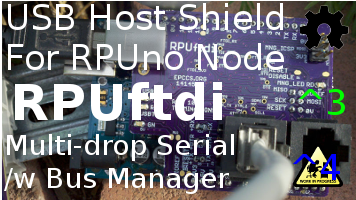
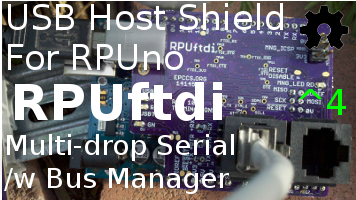
Hardware: ^4 testing

Changed region(s): [[0.5562, 0.21, 0.8034, 0.36], [0.8034, 0.72, 0.9888, 0.96], [0.8961, 0.42, 0.9888, 0.6]]

diff --git a/Hardware/Testing/readme.md b/Hardware/Testing/readme.md
@@ -23,7 +23,7 @@ This is a list of Test preformed on each RPUftdi after assembly.
 
 ## Basics
 
-These tests are for an assembled RPUftdi board 14145^3 which may be referred to as a Unit Under Test (UUT). If the UUT fails and can be reworked then do so, otherwise it needs to be scraped. 
+These tests are for an assembled RPUftdi board 14145^4 which may be referred to as a Unit Under Test (UUT). If the UUT fails and can be reworked then do so, otherwise it needs to be scraped. 
 
 **Warning: never use a soldering iron to rework ceramic capacitors due to the thermal shock.**
     
@@ -44,114 +44,154 @@ Check continuity between pin and pad by measuring the reverse body diode drop fr
 
 ## Bias USB 5V and Check LDO Regulators
 
-Apply a 5V current limited source (about 30mA*) to the USB input. Verify that the 5V gets through the fuse and soft start circuit to the +5V pin. Check that the the MIC5205 linear regulator has 3.3V (use ICSP J9 pin2 on ^3).  Check that the input current for a blank MCU is less than 10mA. Turn off power.
+Connect a 5V supply with CC mode set at 30mA to the USB input. Verify that the 5V gets through the fuse and soft start circuit to the +5V pin. Turn off power. 
+
+Connect a 5V supply with CC mode set at 30mA to the +5V (J7 pin 4) and  0V (J7 pin 2). Measure that the the MIC5205 linear regulator has 3.3V (J9 pin 2). Measure the input current of a blank MCU. Turn off power.
 
 ```
-{   "I_IN_BLANKMCU_mA":[5.5,],
-    "LDO_V":[3.29,] }
+{   "I_IN_BLANKMCU_mA":[4.5,],
+    "LDO_V":[3.3,] }
 ```
+
 
 ## Set MCU Fuse
 
-The MCU needs its fuses set, so a Makefile (e.g. "make fuse") is used to do that. There is not a bootloader, it just sets fuses.
-
-Use the <https://github.com/epccs/RPUftdi/tree/master/Bootload> Makefile 
-
-Check that the input current is suitable for 8Mhz at 3.3V.
+Install Git and AVR toolchain on Ubuntu (16.04, on an old computer try https://wiki.ubuntu.com/Lubuntu). 
 
 ```
-{   "I_IN_MCU_8MHZ_INTRN_mA":[8.5,]}
+sudo apt-get install git gcc-avr binutils-avr gdb-avr avr-libc avrdude
+```
+
+Clone the RPUftdi repository.
+
+```
+cd ~
+git clone https://github.com/epccs/RPUftdi
+cd RPUftdi/Bootload
+```
+
+Connect a 5V supply with CC mode set at 30mA to the +5V (J7 pin 4) and  0V (J7 pin 2). Connect the ICSP tool (J9). The MCU needs its fuses set, so run the Makefile rule to do that. 
+
+```
+make fuse
+```
+
+Note: There is not a bootloader, it just sets fuses.
+
+Disconnect the ICSP tool and measure the input current for 8Mhz internal at 3.3V.
+
+```
+{   "I_IN_MCU_8MHZ_INTRN_mA":[6.3,]}
 ```
 
 
 ## Load CheckDTR Firmware
 
-Increase current limit to 50mA and load (e.g. "make isp") CheckDTR firmware to verify DTR control is working:
+Plug a header (or jumper) onto the +5V pin so that IOREF is jumpered to +5V. Connect TX pin to IOREF to pull it up (the MCU normaly does this). Plug a CAT5 RJ45 stub with 100 Ohm RX, TX and DTR pair terminations. Connect a 5V supply with CC mode set at 50mA to the +5V that was jumpered to IOREF (J7 pin 4) and  0V (J7 pin 2). Connect the ICSP tool (J9).
 
-Use the <https://github.com/epccs/RPUftdi/tree/master/CheckDTR> Makefile
+Use the command line to select the CheckDTR source working directory. Run the makefile rule used to load CheckDTR firmware that verifies DTR control is working:
+
+```
+cd ~RPUftdi/CheckDTR
+make isp
+```
 
 The program loops through the test. It blinks the red LED to show which test number is setup. If it keeps repeating a test then that test has failed.
 
-As the firmware loops the input current can be measured, it should have two distinct levels, one when the DTR pair is driven low and one when the DTR pair is not driven. The blinking LED leaves the DMM unsettled.
+As the firmware loops the input current can be measured, it should have two distinct levels, one when the DTR pair is driven low and one when the DTR pair is not driven. The blinking LED leaves the DMM unsettled. Measure that FTDI_3V3 has 3.3V (TP3).
 
 ```
-{   "DTR_HLF_LD_mA":[36.8,],
-    "DTR_NO_LD_mA":[13.7,] }
+{   "DTR_HLF_LD_mA":[36.8,34.1,],
+    "DTR_NO_LD_mA":[13.7,11.5,],
+    "FTDI_3V3_V":[3.275,] }
 ```
 
 
 ##  Check Differential Bias
 
-Plug a header (or jumper) onto the +5V pin so that IOREF is jumpered to  +5V, set current limit at 100mA. Connect TX pin to IOREF to pull it up (the MCU normaly does this). Use the CheckDTR firmware to set TX_DE and RX_DE high. Now power up the +5V. Check that both RX and TX have 5V. Check that TX_DI has 3.3V (U2 pin 4 on ^3) and its TX_DE control (U2 pin 3 on ^3) is pulled low. Check that FTDI_TX has 3.3V (TP2 on ^3). Check that RX_DE (U6 pin 3 on ^3) is pulled low. 
+Plug a header (or jumper) onto the +5V pin so that IOREF is jumpered to +5V. Connect TX pin to 0V to pull it down to simulate the MCU sending data. The CheckDTR firmware will set TX_DE and RX_DE high. Connect a 5V supply with CC mode set at 100mA to the +5V that was jumpered to IOREF (J7 pin 4) and 0V (J7 pin 2). 
 
-Now disconnect TX from IOREF and connect it to 0V, to simulate the MCU sending data. Check  that the input current is cycling between 56mA and 33mA. At 56mA the TX driver is driving the TX pair with half load and DTR driver is driving the DTR pair with a half load, while ony the TX pair is driven at 33mA. 
+Check  that the input current is cycling between 56mA and 33mA. At 56mA the TX driver is driving the TX pair with half load and DTR driver is driving the DTR pair with a half load, while ony the TX pair is driven at 33mA. 
 
 ```
-{   "DTR_TX_HLF_LD_mA":[59.4,],
-    "TX_HLF_LD_mA":[36.5,] }
+{   "DTR_TX_HLF_LD_mA":[59.4,56.5,],
+    "TX_HLF_LD_mA":[36.5,33.8,] }
 ```
 
 
 ## Differential Loopback with TX Driver
 
-Plug in a RJ45 loopback connector to connect the TX differential pair to the RX differential pair and the input current. The TX driver is now driving a differential pair with 50 Ohms on it, which is the normal load. Verify that RX has 0V on it now. Turn off power. 
 
-NOTE: the RX Driver is directly connected by FTDI_TX to the FTDI chip, if it were to be pulled down to test the RX driver the FTDI chip would be damaged.
+Same as Differential Bias test with a plug in a RJ45 loopback connector to connect the TX differential pair to the RX differential pair and the input current. The TX driver is now driving a differential pair with 50 Ohms on it, which is the normal load. Verify that RX has 0V on it now.
+
+NOTE: the RX Driver is directly connected by FTDI_TX to the FTDI chip pin, if the FTDI_TX node were to be pulled down to test the RX driver the FTDI chip would not stop trying to pull it up and be damaged.
 
 ```
-{   "DTR_HLF_LD_TX_FL_LD_mA":[76.5,],
-    "TX_FL_LD_mA":[53.0,] }
+{   "DTR_HLF_LD_TX_FL_LD_mA":[76.5,73.8,],
+    "TX_FL_LD_mA":[53.0,51.0,] }
 ```
+
+Turn off power. 
 
 
 ## USB Power Up
 
-__Warning:__ a powerd USB hub offers no protection, this needs improved.
+Plug a header (or jumper) onto the +5V pin so that IOREF is jumpered to +5V.
 
 On Linux use the dmesg command to see latest device mesages then plug the USB input to a powered hub that was previously connected and use dmesg to verify that the new USB port shows up. Then use picocom to connect to it.
 
 ```
-rsutherland@conversion:~/Samba/RPUftdi/CheckDTR$ dmesg
+rsutherland@conversion:~/RPUftdi/CheckDTR$ dmesg
 ...
-[54874.888730] usbcore: registered new interface driver ftdi_sio
-[54874.889210] usbserial: USB Serial support registered for FTDI USB Serial Device
-[54874.889728] ftdi_sio 1-4.3:1.0: FTDI USB Serial Device converter detected
-[54874.889933] usb 1-4.3: Detected FT-X
-[54874.890522] usb 1-4.3: FTDI USB Serial Device converter now attached to ttyUSB0
+[20662.404039] usb 1-4.3: new full-speed USB device number 6 using ehci-pci
+[20662.502768] usb 1-4.3: New USB device found, idVendor=0403, idProduct=6015
+[20662.502781] usb 1-4.3: New USB device strings: Mfr=1, Product=2, SerialNumber=3
+[20662.502792] usb 1-4.3: Product: FT231X USB UART
+[20662.502801] usb 1-4.3: Manufacturer: FTDI
+[20662.502812] usb 1-4.3: SerialNumber: DA01LX0U
+[20662.512277] ftdi_sio 1-4.3:1.0: FTDI USB Serial Device converter detected
+[20662.512328] usb 1-4.3: Detected FT-X
+[20662.512686] usb 1-4.3: FTDI USB Serial Device converter now attached to ttyUSB0
 ...
-rsutherland@conversion:~/Samba/RPUftdi/CheckDTR$ picocom -b 115200 /dev/ttyUSB0
+rsutherland@conversion:~/Samba/RPUftdi/CheckDTR$ picocom -b 38400 /dev/ttyUSB0
 ```
 
-Plug in a jumper from TX to RX pins and verify each character echo's. Turn off power (unplug USB).
-
-Note: using the RJ45 loopback will not echo unless the TX input is pulled high, but the above test has already gone on the differential pairs so the RJ45 loopback is not needed. 
+Plug in a jumper from TX to RX pins, which go to the MCU board, and verify each character echo's. Turn off power (unplug USB).
 
 
 ## Load i2c-debug into an MCU board
 
-Plug the DUT into a bare metal MCU board (e.g. RPUno). Connect a USB to the RPUftdi, which should prvide 3.3V for RPUftdi bus manager, and load (e.g. "make isp") the Host2Remote firmware. 
+Plug the DUT into a bare metal MCU board (e.g. RPUno). Connect USB from a host computer to the RPUftdi to power the bus manager. Connect the ICSP tool (J9).
 
-Use the <https://github.com/epccs/RPUftdi/tree/master/Host2Remote> Makefile
+Use the command line to select the Host2Remote source working directory. Run the makefile rule used to load Host2Remote firmware.
+
+```
+cd ~RPUftdi/Host2Remote
+make isp
+```
 
 Use picocom to connect, and verify that the red MNG_LED blinks. The DUT's red MNG_LED blinks when the UART pulls DTR active. Exit picocom with C-a, C-x. The MNG_LED should stop blinking after picocom exits.
 
-Now load (e.g. "make bootload") the i2c-debug firmware onto the bare metal MCU board (e.g. an RPUno) through the DUT. Watch the yellow USBRX and red USBTX to verify they are working. Remove power by pulling the USB plug. 
+Now load the i2c-debug firmware onto the RPUno board through the DUT. Watch the yellow USBRX and red USBTX to verify they are working. Remove power by pulling the USB plug. 
 
-Use the <https://github.com/epccs/RPUno/tree/master/i2c-debug> Makefile
+```
+cd ~RPUno/i2c-debug
+make bootload
+```
 
 Note: The serial bootload has to travel out the FTDI_TX line and into the RX transceiver driver (which also enables it). The RX differential pair is thus driven and seen by all the differential receivers on the RX pair. The RX pair receiver drives the bare metal RX line when it is enabled by the bus manager. The direction data flows is changed but it works similarly from the bare metal TX line to the FTDI_RX line.
 
 
 ## I2C Slave test
 
-With i2c-debug loaded in the MCU board (e.g. an RPUno) on the DUT hotplug the USB to the RPUftdi board. If BUILTIN_LED is connected it will blink at 0.5Hz (1 sec on, and 1 sec off) when I2C reads correctly.
+With i2c-debug loaded in the RPUno board under the DUT hotplug the USB to the RPUftdi board. If BUILTIN_LED is connected it will blink at 0.5Hz (1 sec on, and 1 sec off) when I2C reads correctly.
 
 Note: hotplugging can brownout power to other USB devices when the plugged device does not implement a soft start circuit, but the RPUftdi should not cause such brownouts because it has a soft start.
 
-Note: For reference, the Host2Remote firmware uses the DTR pair to maintain a state machine. When picocom connects it will broadcast a byte on the DTR pair that other bus managers can receive. The following will use I2C command 0x03 (implemented in Host2Remote) to set the address that is broadcast when a host computer pulls the FTDI_nDTR active.
+Note: For reference, the Host2Remote firmware uses the DTR pair to maintain a state machine. When picocom connects it will broadcast a byte on the DTR pair that other bus managers can receive. The following will use I2C command 0x03 (implemented in Host2Remote) to set the address ('1' or 0x31) that is broadcast when a host computer pulls the FTDI_nDTR active.
 
 ```
-rsutherland@conversion:~/Samba/RPUftdi/CheckDTR$ picocom -b 115200 /dev/ttyUSB0
+rsutherland@conversion:~/Samba/RPUftdi/CheckDTR$ picocom -b 38400 /dev/ttyUSB0
 ...
 /0/id?
 {"id":{"name":"I2Cdebug","desc":"RPUno Board /w atmega328p and LT3652","avr-gcc":"4.9"}}
@@ -159,12 +199,12 @@ rsutherland@conversion:~/Samba/RPUftdi/CheckDTR$ picocom -b 115200 /dev/ttyUSB0
 {"scan":[{"addr":"0x29"}]}
 /0/address 41
 {"address":"0x29"}
-/0/buffer 3,0
-{"txBuffer":["data":"0x3","data":"0x0"]}
+/0/buffer 3,49
+{"txBuffer":["data":"0x3","data":"0x31"]}
 /0/write
 {"returnCode":"success"}
 /0/read? 2
-{"rxBuffer":[{"data":"0x3"},{"data":"0x0"}]}
+{"rxBuffer":[{"data":"0x3"},{"data":"0x31"}]}
 ```
 
-
+Since there is no address '1' the RPUftdi bus manager LED will blink slow until the bootload timout is done, a power cycle will reset the bootload address to '0'.

diff --git a/readme.md b/readme.md
@@ -28,7 +28,7 @@ Hardware files are in Eagle, there is also some testing, evaluation, and schooli
 
 ## Example
 
-A multi-drop serial bus allows multiple microcontroller boards to be connected to a host serial port. The host computer needs to be near the RPUftdi board because USB works over short distances (about 2 meters). The host controls the transceivers through the FTDI UART bridge automatically, which means no software [magic] is needed to control the transceivers. The microcontrollers do the same, but only one should be allowed to talk.
+A multi-drop serial bus allows multiple microcontroller boards to be connected to a host serial port. The host computer needs to be near the RPUftdi board because USB works over short distances (about 2 meters). The host serial handshake signals are connected to the bus manager microcontroller which is also connected to the transceivers. The goal is to have a multidrop connection that configures automatically when the host activates the FTDI UART bridge.  Additionally, it is desired to have zero software [magic] for control of the transceivers. The microcontrollers also do not need to control the transceivers, but only one should be allowed to talk.
 
 [magic]: https://github.com/pyserial/pyserial/blob/master/serial/rs485.py
 
@@ -36,15 +36,17 @@ A multi-drop serial bus allows multiple microcontroller boards to be connected t
 
 In the examples, I have for [RPUno] a command processor accepts interactive textual commands and operates the peripherals. The examples have a simple makefile that compiles the microcontroller firmware from the source. The host I use has Ubuntu (or Raspbian) with the AVR toolchain installed.
 
-The makefile has a rule (e.g. "make bootload") that uploads to the targets bootloader with avrdude. Yes that is correct... the no [magic] also means avrdude can work (though the bus manager needs to setup a point to point mode). 
+The makefile has a rule (e.g. "make bootload") that uploads to the targets bootloader with avrdude. Since the transceiver control [magic] is pushed into the bus manager, avrdude can work (the bus manager initializes a point to point mode with a 25 second time to live when the host becomes active). 
 
-When PySerial on the host opens the serial port it pulls the nDTR line low (it is active low) and that tells the manager running [Host2Remote] firmware to reset the bootload address. PySerial needs to wait for a few seconds so the bootloader timeout finishes just like with an Arduino Uno, and is the same reason (e.g. on RS232 the same bootloader timeout is needed).
+When PySerial on the host opens the serial port it pulls the nDTR line low (it is active low) and that tells the manager running [Host2Remote] firmware to reset the bootload address (broadcast on DTR pair). PySerial needs to wait for a few seconds so the bootloader timeout finishes. The RPUno application needs to read the RPUftid serial address over I2C so that the RPUftdi bus manager knows to connect the RPUno's serial lines to the multi-drop bus (and end the bootload mode immediately).
 
 [Host2Remote]: ./Host2Remote
 
 When avrdude opens the serial port it pulls the nDTR line low and the manager broadcast the bootload address which places everything in lockout except the host and the microcontroller board that was addressed. The address is held in the manager on the shield so replacing the [RPUno] dos not change that locations address, but replacing the [RPUadpt] does.
 
 ## AVR toolchain
+
+This is easy because it is packaged. Thanks Debain, Ubuntu, Raspibin, ...
 
 * sudo apt-get install [gcc-avr]
 * sudo apt-get install [binutils-avr]

diff --git a/Hardware/README.md b/Hardware/README.md
@@ -23,7 +23,7 @@ Eagle Files, BOM, Status, and how to Test.
 
 * Multi-drop communication.
 * Allows firmware uploads with optiboot or xboot using avrdude.
-* Open Hardware, don't like my bus manager firmware then do your own.
+* Open Hardware, with example bus manager firmware.
 
 
 # Table Of Contents
@@ -36,20 +36,17 @@ Eagle Files, BOM, Status, and how to Test.
 
 # Status
 
-![Status](./status_icon.png "RPUno Status")
+![Status](./status_icon.png "RPUftdi Status")
 
 ```
-        ^4  Done: Design, Layout, BOM, Review*, Order Boards, Assembly,
-            WIP: Testing,
-            Todo:  Evaluation.
+        ^4  Done: Design, Layout, BOM, Review*, Order Boards, Assembly, Testing,
+            WIP: Evaluation.
+            Todo:  
             *during review the Design may change without changing the revision.
             Connect bus manager ICP1 pin to a test point rather than RXD from DTR transceiver. 
             Remove Vin connection and use +5V only.
 
-        ^3 Done: Design, Layout, Review*, Order Boards, Assembly, Testing, 
-           WIP: Evaluation
-           Todo:
-           location: 2016-10-1 Test Bench /w an OSEPP Uno R3, used to connect by CAT5 to outside parts and to bench parts as needed.
+        ^3 location: 2016-10-1 Test Bench /w an OSEPP Uno R3, used to connect by CAT5 to outside parts and to bench parts as needed.
                      2017-1-5 ICP1 hacked open.
 ```
 

diff --git a/CheckDTR/README.md b/CheckDTR/README.md
@@ -4,6 +4,4 @@
 
 Used for testing the DTR transceiver.
 
-Toolchain setup http://epccs.org/indexes/Document/DvlpNotes/LinuxBoxCrossCompiler.html
-
 
